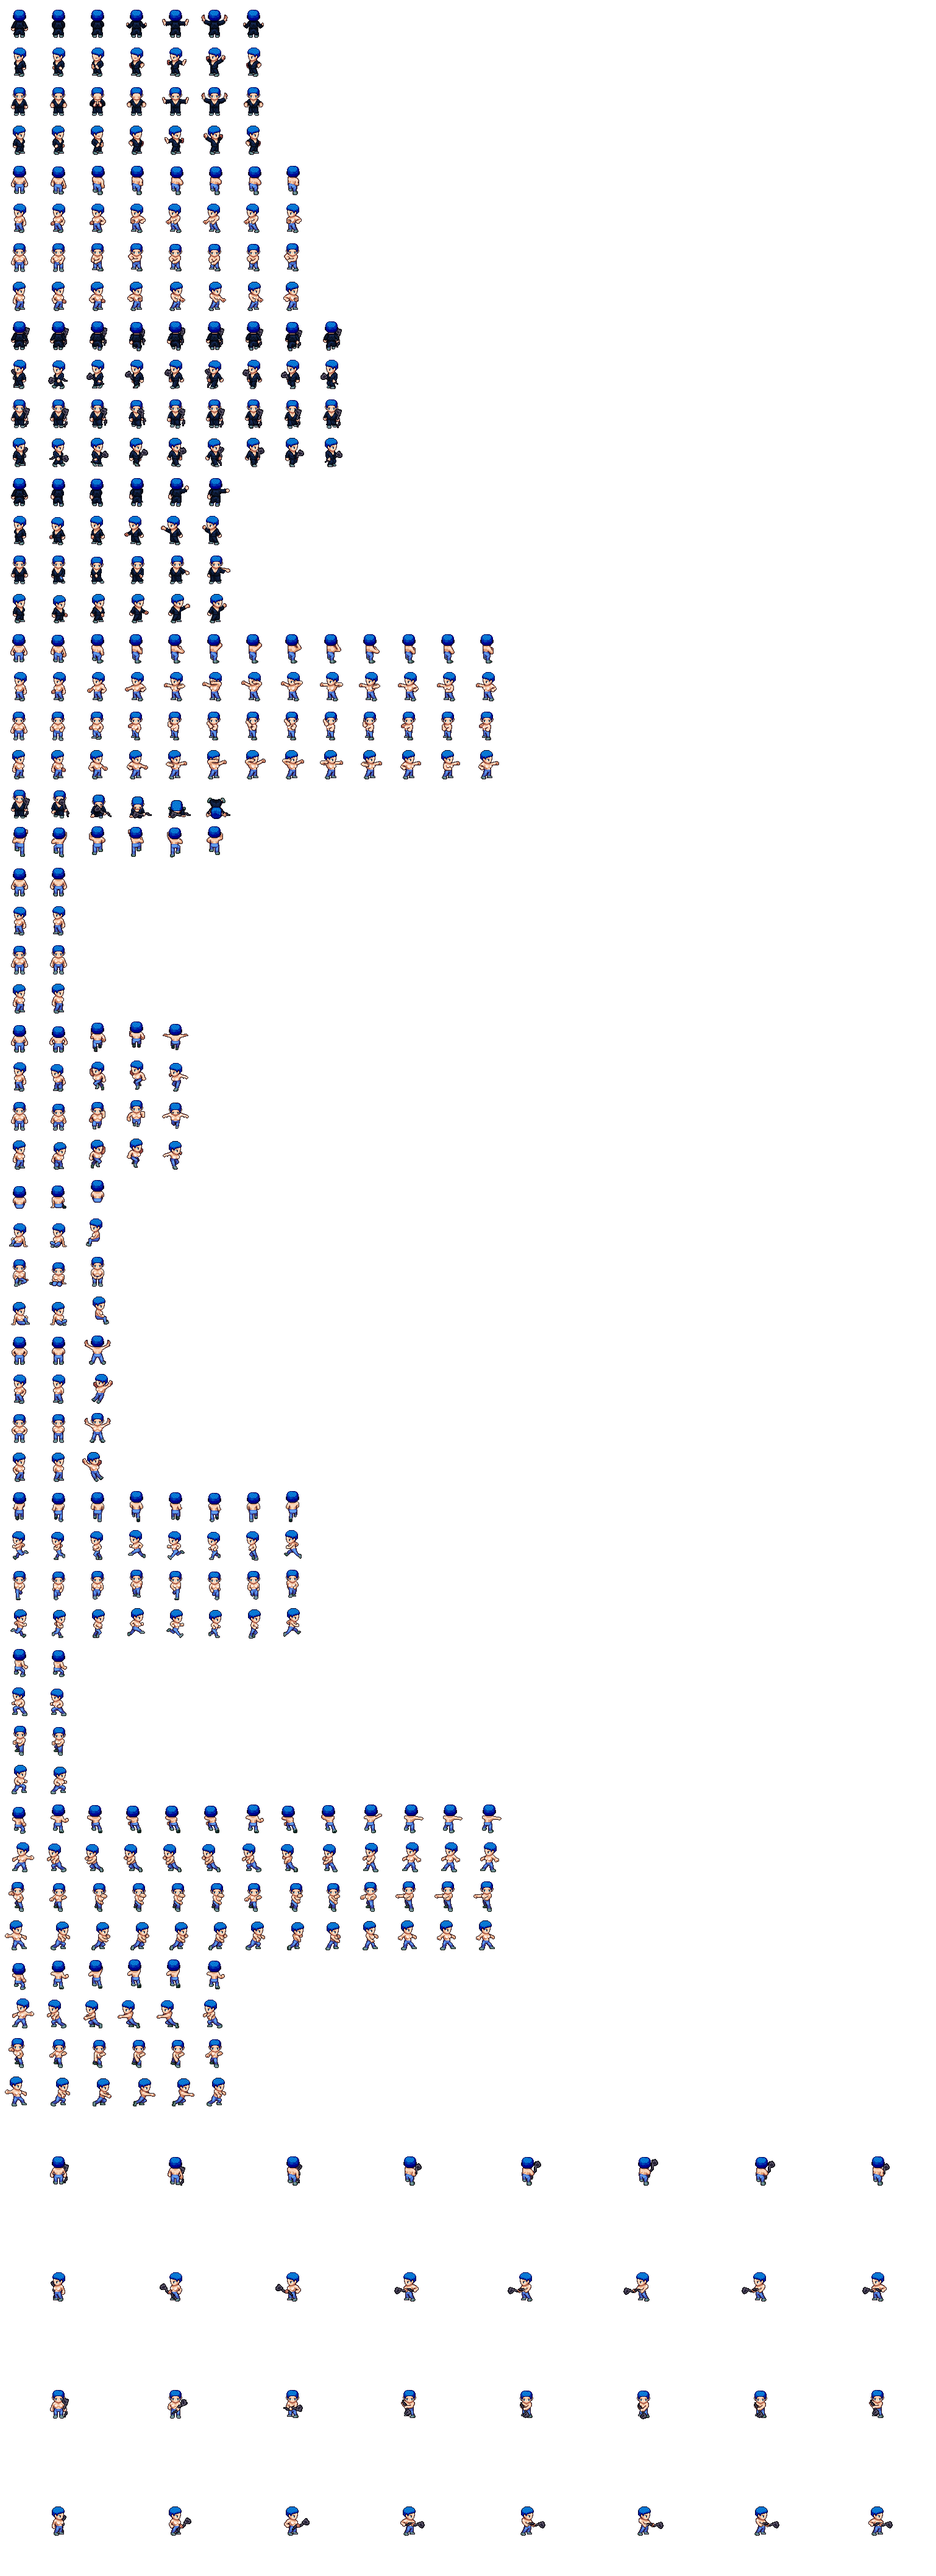
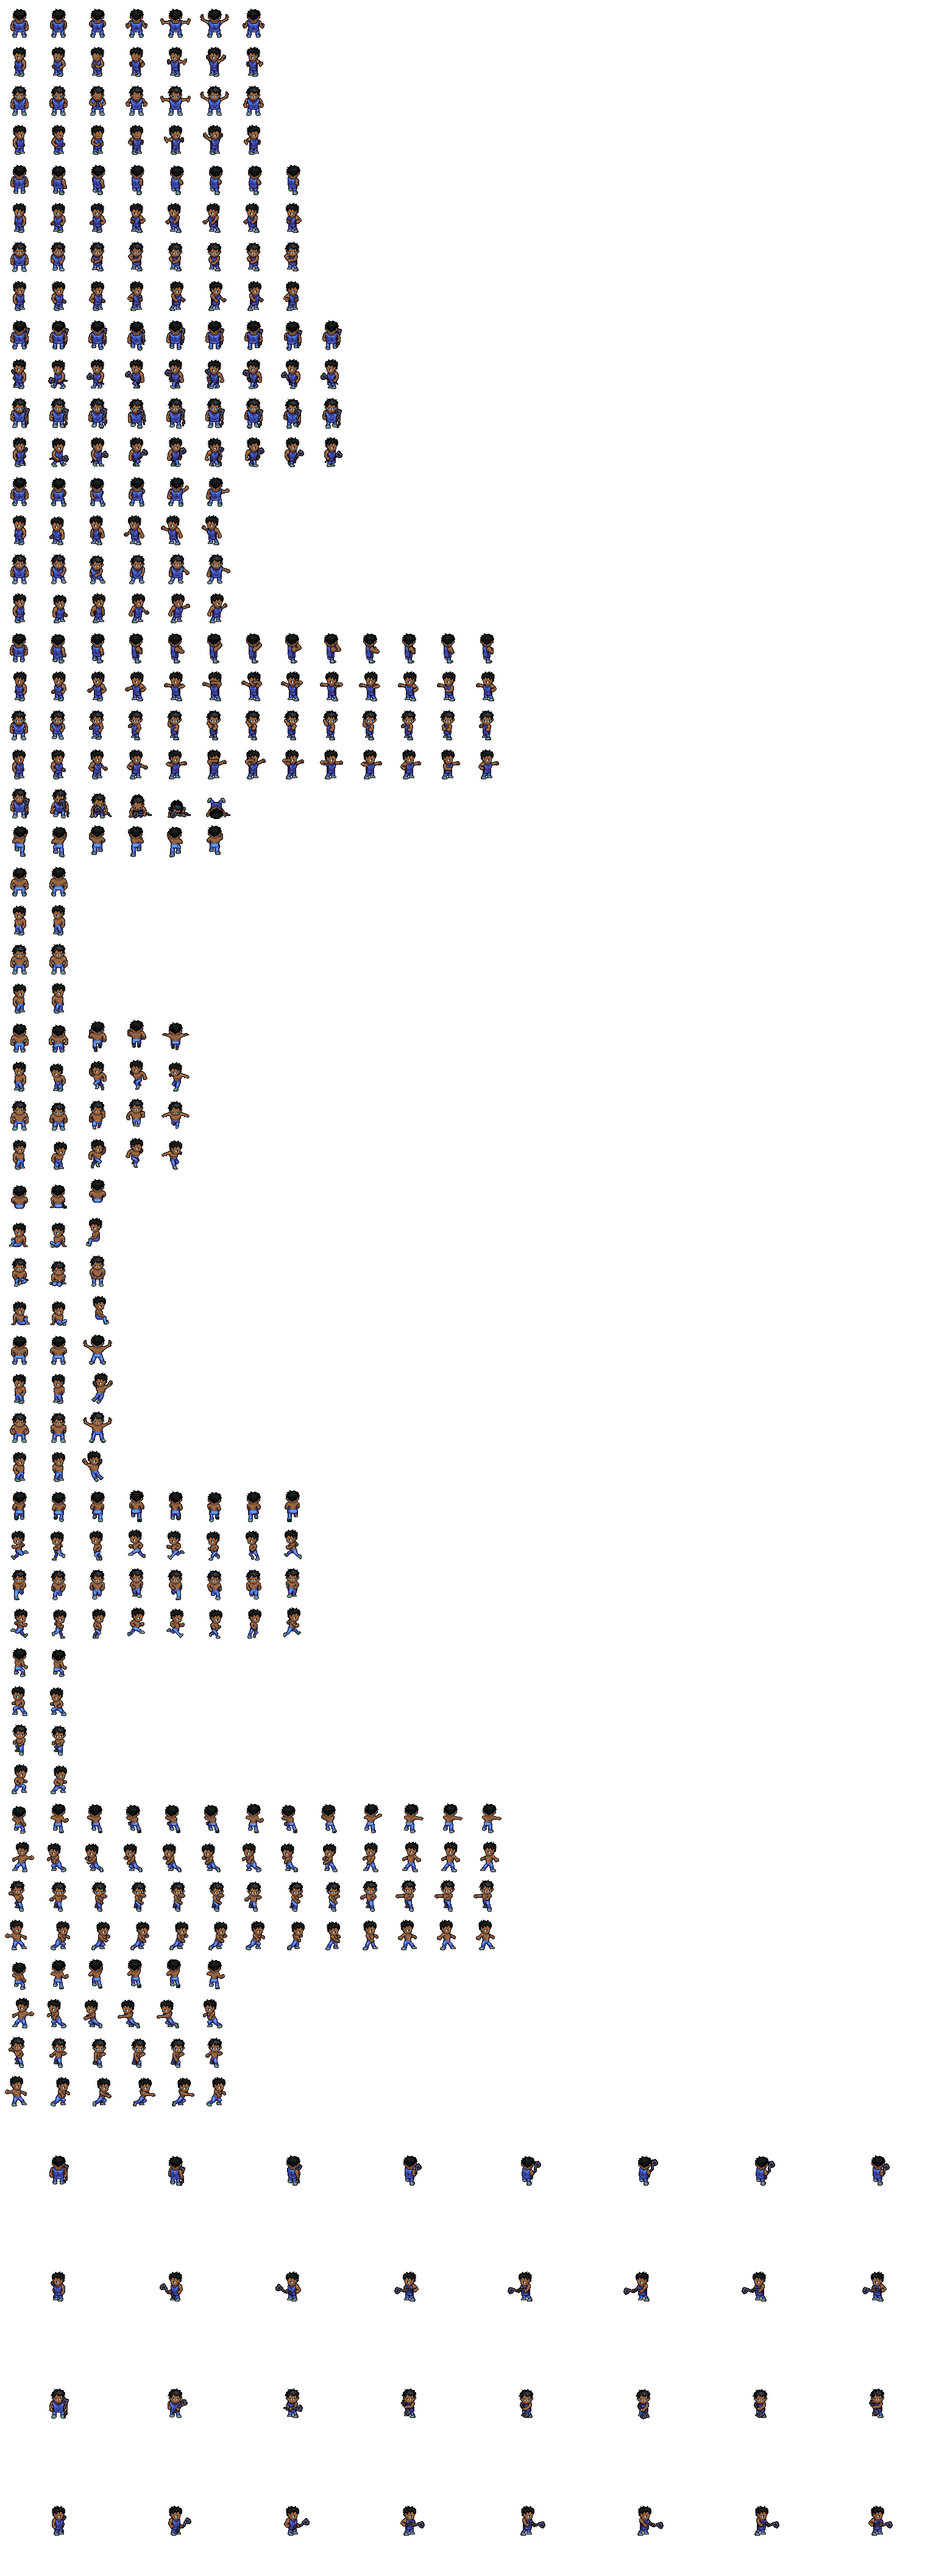
art(characters): PO-direction regens — Mage Black, varied hair, Blacksmith bald, Ranger hood, Maid ponytail (#29)
* art(characters): PO-direction regens — Mage Black man, varied hair styles

Per PO direction 2026-04-19:

- **Mage**: male + brown skin (Black character — prior female-with-light-skin
  sheet was wrong). Bedhead hair (neutral bookish/scholar style —
  intentionally avoiding ethnically-coded styles like afro / twists /
  dreadlocks / cornrows). Robe → Tabard blue (Robe is female-only in
  LPC; Iverness cloak only has a black variant, so Tabard_blue is the
  male-compatible blue outer garment).
- **Hair diversification** — all 5 characters had "Natural" (same flat
  style). Now each is distinct:
    - Warrior: Mop (chestnut) — loose messy warrior cut
    - Ranger: Lob (green, shoulder-length bob visible under hood)
    - Mage: Bedhead (black — scholar style)
    - Blacksmith: Balding (black — PO "bald with beard" direction)
    - Guild Maid: Ponytail (gold — PO "ponytail" direction)
- **Ranger**: added `hat: Hood_brown` over the Lob hair — green variant
  of Hood doesn't exist in LPC, picked brown (earthy ranger-appropriate).
- **Blacksmith**: Natural_black → Balding_black — renders as bald /
  heavy-receded hairline. Beard kept (Basic_Beard_black).

Background / bug fix:
- The initial Mage regen produced a shirtless sprite because
  `Iverness_cloak_blue` is not a valid LPC variant (iverness/male/walk
  only has black.png). LPC generator silently drops invalid layers
  rather than erroring. Addressed by switching Mage torso to Tabard
  which has a male blue variant.
[…]

diff --git a/assets/characters/CREDITS.md b/assets/characters/CREDITS.md
@@ -22,38 +22,41 @@ Auto-generated by `tools/lpc-generator/game-batch.mjs` (Playwright run). The bat
 
 **Full per-layer attribution:** [`player/warrior/warrior_credits.txt`](player/warrior/warrior_credits.txt)
 
-**Layers (8):**
+**Layers (9):**
 
 - `body/bodies/male/walk.png`
 - `head/heads/human/male/walk.png`
-- `hair/natural/adult/walk.png`
+- `hair/mop/adult/walk.png`
 - `beards/beard/basic/walk.png`
 - `torso/armour/plate/male/walk.png`
 - `legs/pants2/male/walk.png`
 - `feet/accessory/plate_toe_thick/male/walk/bronze.png`
 - `weapon/sword/longsword/walk/longsword.png`
+- `shield/round/walk/silver.png`
 
-**Licenses:** CC-BY 3.0+, CC-BY-SA 3.0, CC0, GPL 3.0, OGA-BY 3.0, OGA-BY 3.0+
+**Licenses:** CC-BY 3.0+, CC-BY-SA 3.0, GPL 3.0, OGA-BY 3.0, OGA-BY 3.0+
 
-**Authors:** Benjamin K. Smith (BenCreating), Carlo Enrico Victoria (Nemisys), Durrani, ElizaWy, Evert, JaidynReiman, Johannes Sjölund (wulax), Michael Whitlock (bigbeargames), MuffinElZangano, Napsio (Vitruvian Studio), Stephen Challener (Redshrike), TheraHedwig, bluecarrot16
+**Authors:** Benjamin K. Smith (BenCreating), Carlo Enrico Victoria (Nemisys), DarkwallLKE, Durrani, ElizaWy, Evert, JaidynReiman, Johannes Sjölund (wulax), Michael Whitlock (bigbeargames), MuffinElZangano, Napsio (Vitruvian Studio), Radomir Dopieralski, Stephen Challener (Redshrike), TheraHedwig, Tuomo Untinen (reemax), bluecarrot16
 
 ### Ranger (`player/ranger/`)
 
 **Full per-layer attribution:** [`player/ranger/ranger_credits.txt`](player/ranger/ranger_credits.txt)
 
-**Layers (7):**
+**Layers (9):**
 
 - `body/bodies/female/walk.png`
 - `head/heads/human/female/walk.png`
-- `hair/natural/adult/walk.png`
+- `hair/lob/adult/walk.png`
 - `torso/clothes/tunic/female/walk/green.png`
+- `hat/cloth/hood/adult/walk/green.png`
+- `arms/gloves/female/walk/leather.png`
 - `legs/pants2/thin/walk.png`
 - `feet/shoes/revised/thin/walk/brown.png`
 - `weapon/ranged/bow/normal/universal/background/walk/iron.png`
 
 **Licenses:** CC-BY 4.0, CC-BY-SA 3.0, CC0, GPL 3.0, OGA-BY 3.0, OGA-BY 3.0+
 
-**Authors:** Benjamin K. Smith (BenCreating), Durrani, ElizaWy, Evert, JaidynReiman, Johannes Sjölund (wulax), Marcel van de Steeg (MadMarcel), Matthew Krohn (makrohn), MuffinElZangano, Pierre Vigier (pvigier), Stephen Challener (Redshrike), TheraHedwig, bluecarrot16
+**Authors:** Benjamin K. Smith (BenCreating), Durrani, ElizaWy, Evert, JaidynReiman, Johannes Sjölund (wulax), Marcel van de Steeg (MadMarcel), Matthew Krohn (makrohn), Michael Whitlock (bigbeargames), MuffinElZangano, Pierre Vigier (pvigier), Stephen Challener (Redshrike), TheraHedwig, bluecarrot16
 
 ### Mage (`player/mage/`)
 
@@ -61,36 +64,37 @@ Auto-generated by `tools/lpc-generator/game-batch.mjs` (Playwright run). The bat
 
 **Layers (7):**
 
-- `body/bodies/female/walk.png`
-- `head/heads/human/female/walk.png`
-- `hair/natural/adult/walk.png`
-- `torso/clothes/robe/female/walk/blue.png`
-- `legs/pants2/thin/walk.png`
-- `feet/shoes/revised/thin/walk/bluegray.png`
+- `body/bodies/male/walk.png`
+- `head/heads/human/male/walk.png`
+- `hair/bedhead/adult/walk.png`
+- `torso/jacket/tabard/male/walk/blue.png`
+- `legs/pants2/male/walk.png`
+- `feet/shoes/revised/male/walk/bluegray.png`
 - `weapon/magic/gnarled/universal/foreground/walk/iron.png`
 
-**Licenses:** CC-BY 4.0, CC-BY-SA 3.0, CC0, GPL 3.0, OGA-BY 3.0, OGA-BY 3.0+
+**Licenses:** CC-BY 4.0, CC-BY-SA 3.0, GPL 3.0, OGA-BY 3.0, OGA-BY 3.0+
 
-**Authors:** Benjamin K. Smith (BenCreating), Durrani, ElizaWy, Evert, JaidynReiman, Johannes Sjölund (wulax), Luke Mehl, Matthew Krohn (makrohn), MuffinElZangano, Pierre Vigier (pvigier), Stephen Challener (Redshrike), TheraHedwig, bluecarrot16
+**Authors:** Benjamin K. Smith (BenCreating), Durrani, ElizaWy, Evert, JaidynReiman, Johannes Sjölund (wulax), Manuel Riecke (MrBeast), MuffinElZangano, Stephen Challener (Redshrike), TheraHedwig, bluecarrot16
 
 ### Blacksmith (`npcs/blacksmith/`)
 
 **Full per-layer attribution:** [`npcs/blacksmith/blacksmith_credits.txt`](npcs/blacksmith/blacksmith_credits.txt)
 
-**Layers (8):**
+**Layers (7):**
 
-- `body/bodies/male/walk.png`
+- `body/bodies/muscular/walk.png`
 - `head/heads/human/male/walk.png`
-- `hair/natural/adult/walk.png`
+- `hair/balding/adult/walk.png`
 - `beards/beard/basic/walk.png`
-- `torso/jacket/iverness/male/walk/black.png`
-- `legs/pants2/male/walk.png`
+- `legs/pants/male/walk.png`
 - `feet/shoes/revised/male/walk/black.png`
 - `weapon/blunt/mace/walk/mace.png`
 
-**Licenses:** CC-BY-SA 3.0, CC0, GPL 3.0, OGA-BY 3.0
+*Intentionally shirtless (no torso/jacket layer) — PO direction: muscular + shirtless smith silhouette.*
 
-**Authors:** Benjamin K. Smith (BenCreating), Carlo Enrico Victoria (Nemisys), Durrani, ElizaWy, Evert, JaidynReiman, Johannes Sjölund (wulax), MuffinElZangano, Stephen Challener (Redshrike), TheraHedwig, bluecarrot16
+**Licenses:** CC-BY-SA 3.0, GPL 3.0, OGA-BY 3.0
+
+**Authors:** Benjamin K. Smith (BenCreating), Carlo Enrico Victoria (Nemisys), Durrani, ElizaWy, Evert, JaidynReiman, Johannes Sjölund (wulax), Matthew Krohn (makrohn), MuffinElZangano, Sander Frenken (castelonia), Stephen Challener (Redshrike), TheraHedwig, bluecarrot16, dalonedrau
 
 ### Guild Maid (`npcs/guild_maid/`)
 
@@ -100,15 +104,15 @@ Auto-generated by `tools/lpc-generator/game-batch.mjs` (Playwright run). The bat
 
 - `body/bodies/female/walk.png`
 - `head/heads/human/female/walk.png`
-- `hair/natural/adult/walk.png`
+- `hair/ponytail/adult/fg/walk.png`
 - `torso/clothes/blouse/female/walk/yellow.png`
 - `torso/aprons/apron_half/female/walk/white.png`
 - `legs/pants2/thin/walk.png`
 - `feet/shoes/revised/thin/walk/brown.png`
 
-**Licenses:** CC-BY-SA 3.0, CC0, GPL 3.0, OGA-BY 3.0
+**Licenses:** CC-BY-SA 3.0, GPL 3.0, OGA-BY 3.0
 
-**Authors:** Benjamin K. Smith (BenCreating), Durrani, ElizaWy, Evert, JaidynReiman, Johannes Sjölund (wulax), Lanea Zimmerman (Sharm), Matthew Krohn (makrohn), MuffinElZangano, Pierre Vigier (pvigier), Stephen Challener (Redshrike), TheraHedwig, bluecarrot16
+**Authors:** Benjamin K. Smith (BenCreating), Durrani, ElizaWy, Evert, JaidynReiman, Johannes Sjölund (wulax), Lanea Zimmerman (Sharm), Manuel Riecke (MrBeast), Matthew Krohn (makrohn), MuffinElZangano, Pierre Vigier (pvigier), Stephen Challener (Redshrike), TheraHedwig, bluecarrot16
 
 ### Village Chief (`npcs/village_chief/`)
 
